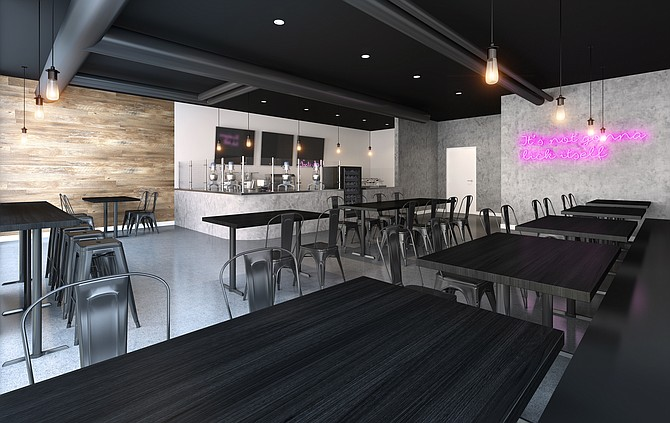
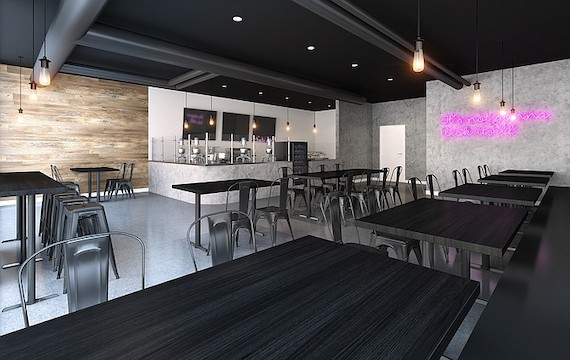
Made minor CSS changes and added the photo to locations.html

diff --git a/styles.css b/styles.css
@@ -1,3 +1,4 @@
+@import url('https://fonts.googleapis.com/css?family=Sofia');
 
 * {
     margin: 0;
@@ -125,6 +126,21 @@ p {
     /* height: 254px; */
 }
 
+#locationText {
+    float: right;
+    width: 50%;
+    position: relative; 
+    top: 50%;
+    height: 360px;
+    margin: 15px auto; 
+    /* margin: 50px;  */
+}
+
+#locationText p {
+    font-size: 120%;
+    width: 75%;
+}
+
 button, #submit {
     /* background-color: #a37874; */
     background-color: #dbb1bc;
@@ -157,7 +173,7 @@ table {
     width: 50%;     /* These next couple lines make the table responsive */
     min-width: 100px; 
     max-width: 500px; 
-    margin: 40px 40px 0;
+    margin: 0 40px 
     /* position: relative; */
     /* right: 20px; */
     /* float: right; */
@@ -217,7 +233,7 @@ input {
 
 label {
     margin: 0 4px; 
-    vertical-align: center; 
+    /* vertical-align: center;  */
 }
 
 #comments {
@@ -291,6 +307,16 @@ textarea {
     top: 290px; 
     z-index: -1;
 }
+
+#contactForm label {
+    width: 100px; 
+    text-align: right; 
+    display: inline-block;
+}
+
+#contactForm #submit {
+    margin-left: 20px; 
+}
 /* End Contact Styles */
 
 
@@ -298,7 +324,6 @@ textarea {
 #indexContent {
     margin: 0;
     padding: 0;
-    height: 800px; 
     min-width: 800px; 
 }
 
@@ -311,21 +336,26 @@ textarea {
     /* margin: 0 8px 5px;  */
 }
 
-#dealOfDay h1, #dealOfDay h3 {
+#dealOfDay h1 {
     color: snow;
     margin: 0; 
     padding: 10px; 
+    text-align: center; 
+    position: relative;
+    top: 45%;
+    display: inline-block; 
+    width: 100%;
+    font-family:  sofia, cursive;
+    background-color: #dbb1bc; 
 }
 
 .links {
-    /* float: left; */
     width: 300px;
     height: 300px;
     background-repeat: no-repeat; 
     background-size: cover; 
-    /* margin:10px ;  */
     display: inline-block;
-    /* margin: 5px 10px; */
+    margin: 0 15px; 
 }
 
 .links h3 {

diff --git a/locations.html b/locations.html
@@ -22,14 +22,17 @@
             </nav>
         </header>
         <div id="theContent">
-            <!-- <img src="images/iceCreamLocation.jpg" alt="Sweet Serendipity Location" id="storeImg" width="670" height="423" /> -->
-            <p>No matter where you are in Indiana, you can find a Sweet Serendipity near you. Check any of of our four great locations: <a href="#downtown">Downtown Indianapolis</a>, <a href="#brip">Broad Ripple</a>, <a href="#bloomington">Bloomington</a>, or <a href="#carmel">Carmel</a>. Look below to find the address, store hours, phone number, or to place an order!</p>
+            <img src="images/iceCreamLocation.jpg" alt="Sweet Serendipity Location" id="storeImg" width="570" height="360" />
+            <div id="locationText">
+                <h1>Come Visit Us!</h1>
+                <p>No matter where you are in Indiana, you can find a Sweet Serendipity near you. Check any of of our four great locations: <a href="#downtown">Downtown Indianapolis</a>, <a href="#brip">Broad Ripple</a>, <a href="#bloomington">Bloomington</a>, or <a href="#carmel">Carmel</a>. Look below to find the address, store hours, phone number, or to place an order!</p>
+            </div>
             <div class="location">
                 <h3 id="downtown">Downtown Indianapolis</h3> 
-                <a href="order.html"><button>Order Now!</button></a>
+                <!-- <a href="order.html"><button>Order Now!</button></a> -->
                 <p><b>Phone:</b>317.252.0271</p>
                 <p><b>Address:</b> 427 Massachusetts Ave, Indianapolis, IN 46204</p>
-                <!-- <a href="order.html"><button>Order Now!</button></a> -->
+                <a href="order.html"><button>Order Now!</button></a>
             </div>
             <table>
                 <tr>

diff --git a/contact.html b/contact.html
@@ -1,7 +1,7 @@
 <!DOCTYPE html>
 <html>
     <head>
-        <title>Sweet Serendipity</title>
+        <title>Sweet Serendipity || Contact Us</title>
         <link href="styles.css" type="text/css" rel="stylesheet" />
         <link href="https://fonts.googleapis.com/css?family=Cabin" rel="stylesheet">
     </head>

diff --git a/contactError.html b/contactError.html
@@ -1,7 +1,7 @@
 <!DOCTYPE html>
 <html>
     <head>
-        <title>Sweet Serendipity</title>
+        <title>Sweet Serendipity || Contact Us</title>
         <link href="styles.css" type="text/css" rel="stylesheet" />
         <link href="https://fonts.googleapis.com/css?family=Cabin" rel="stylesheet">
     </head>

diff --git a/employment.html b/employment.html
@@ -1,7 +1,7 @@
 <!DOCTYPE html>
 <html>
     <head>
-        <title>Sweet Serendipity</title>
+        <title>Sweet Serendipity || Apply</title>
         <link href="styles.css" type="text/css" rel="stylesheet" />
         <link href="https://fonts.googleapis.com/css?family=Cabin" rel="stylesheet">
     </head>

diff --git a/index.html b/index.html
@@ -24,8 +24,7 @@
 
         <div id="indexContent">
             <div id="dealOfDay">
-                <h1>Deal of the Day:</h1>
-                <h3>Lucky Break Sundae</h3>
+                <h1>Deal of the Day: Lucky Break Sundae</h1>
             </div>
 
             <div id="homeLinks">
